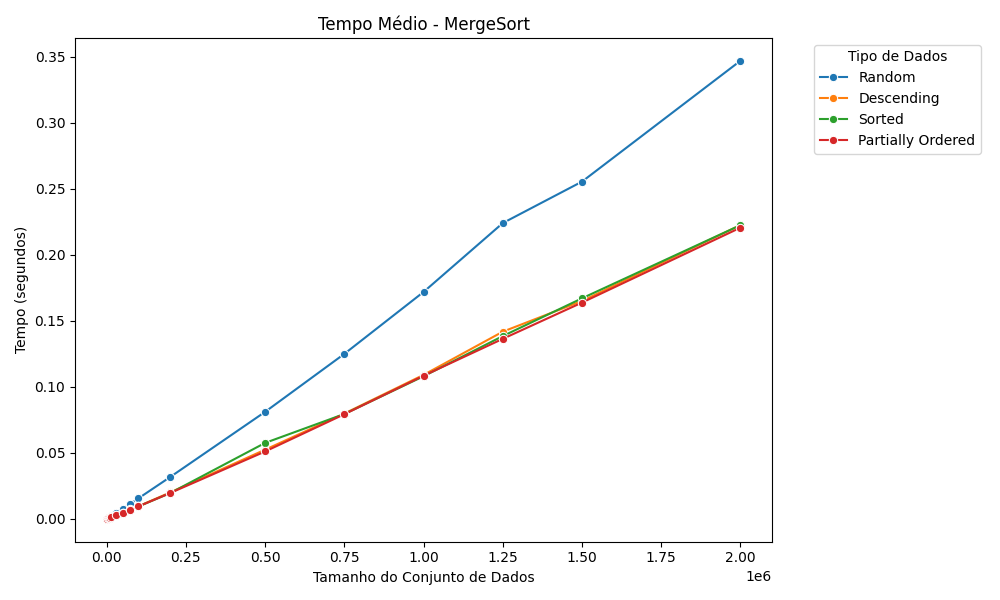
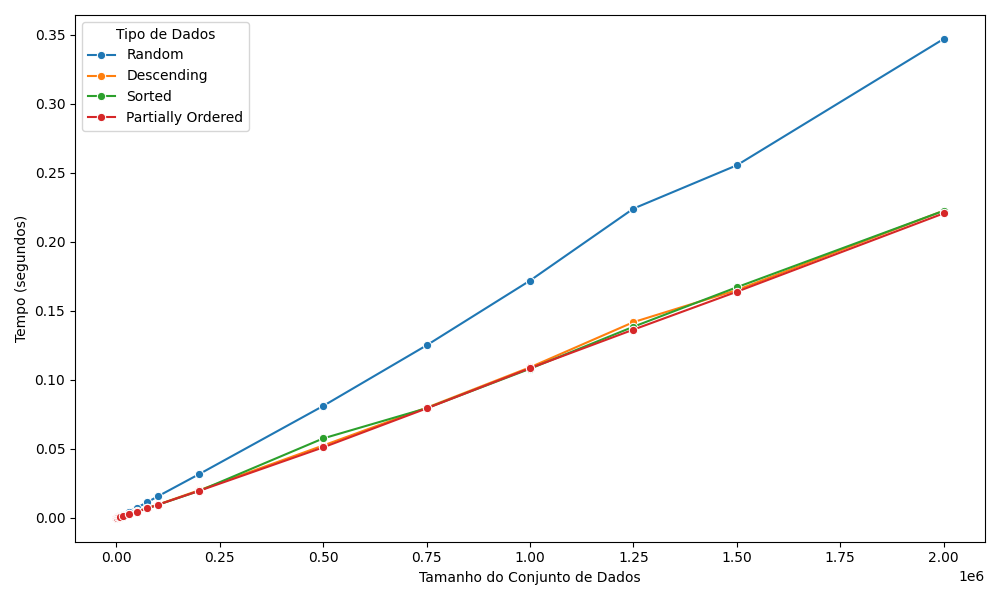
ajustes

diff --git a/analyses/group_and_graph.py b/analyses/group_and_graph.py
@@ -50,10 +50,10 @@ for algoritmo in algoritmos:
     plt.figure(figsize=(10, 6))
     subset = df[df['Algorithm'] == algoritmo]
     sns.lineplot(data=subset, x="Size", y="TimeSecondsMean", hue="DataType", marker="o")
-    plt.title(f"Tempo Médio - {algoritmo}")
+    # plt.title(f"Tempo Médio - {algoritmo}")
     plt.xlabel("Tamanho do Conjunto de Dados")
     plt.ylabel("Tempo (segundos)")
-    plt.legend(title="Tipo de Dados", bbox_to_anchor=(1.05, 1), loc='upper left')
+    plt.legend(title="Tipo de Dados", loc='upper left', bbox_to_anchor=(0, 1))
     plt.tight_layout()
     plt.savefig(f"{output_dir}/{algoritmo.lower()}_tempo_por_tipo_dado.png")
     plt.close()
@@ -75,10 +75,10 @@ for algoritmo in algoritmos:
         errorbar="sd"
     )
 
-    plt.title(f"Tempo Médio com Desvio Padrão - {algoritmo}")
+    # plt.title(f"Tempo Médio com Desvio Padrão - {algoritmo}")
     plt.xlabel("Tamanho do Conjunto de Dados")
     plt.ylabel("Tempo (segundos)")
-    plt.legend(title="Tipo de Dados", bbox_to_anchor=(1.05, 1), loc='upper left')
+    plt.legend(title="Tipo de Dados", loc='upper left', bbox_to_anchor=(0, 1))
     plt.tight_layout()
     plt.savefig(f"{output_dir}/{algoritmo.lower()}_tempo_com_std_por_tipo_dado.png")
     plt.close()    
@@ -102,10 +102,10 @@ for tipo in tipos_dados:
         errorbar="sd"
     )
 
-    plt.title(f"Tempo Médio por Algoritmo - Dados: {tipo}")
+    # plt.title(f"Tempo Médio por Algoritmo - Dados: {tipo}")
     plt.xlabel("Tamanho do Conjunto de Dados")
     plt.ylabel("Tempo (segundos)")
-    plt.legend(title="Algoritmo", bbox_to_anchor=(1.05, 1), loc='upper left')
+    plt.legend(title="Algoritmo", loc='upper left', bbox_to_anchor=(0, 1))
     plt.tight_layout()
     filename = tipo.lower().replace(" ", "_")
     plt.savefig(f"{output_dir}/tempo_comparativo_por_algoritmo_{filename}.png")
